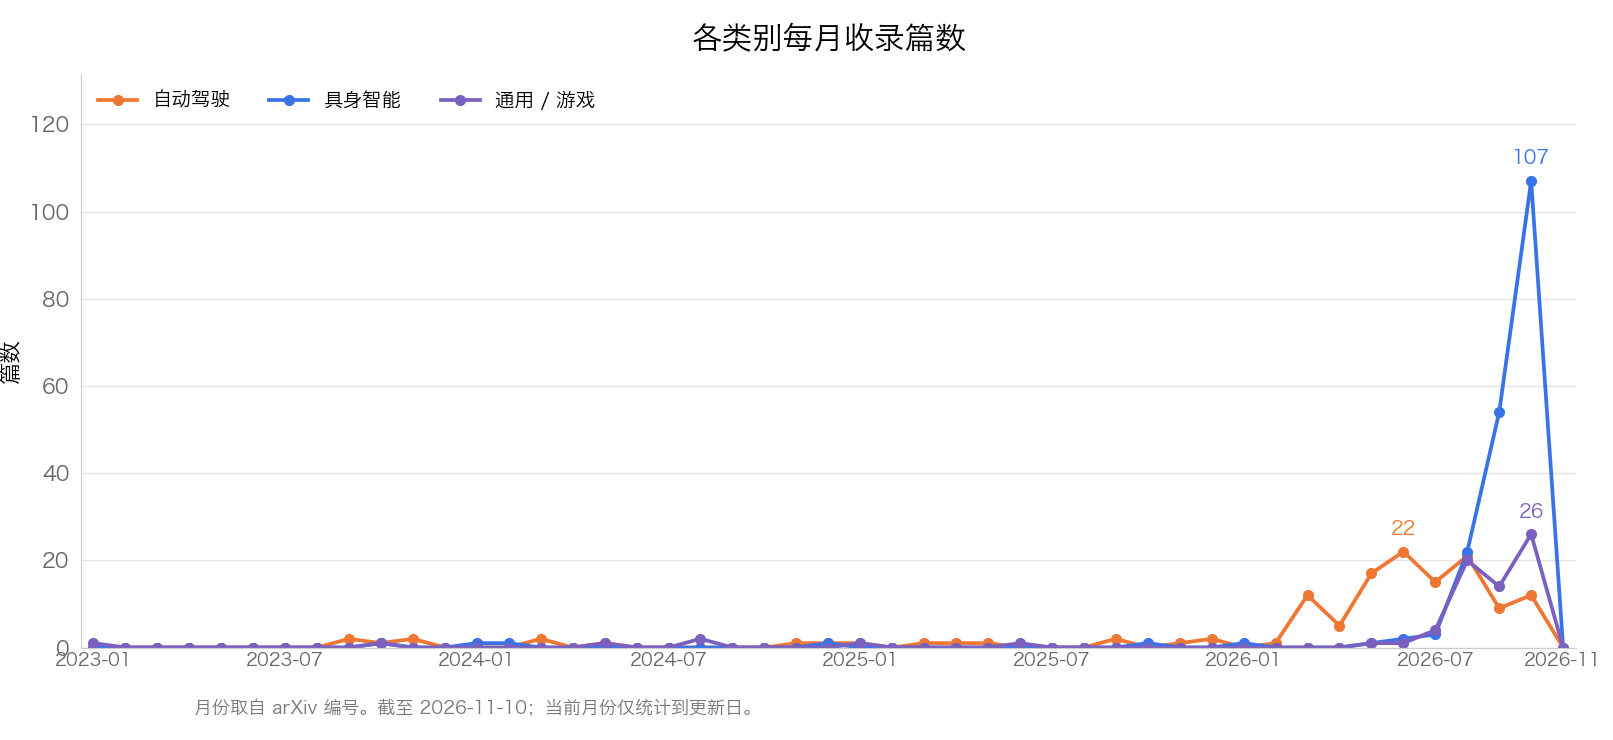
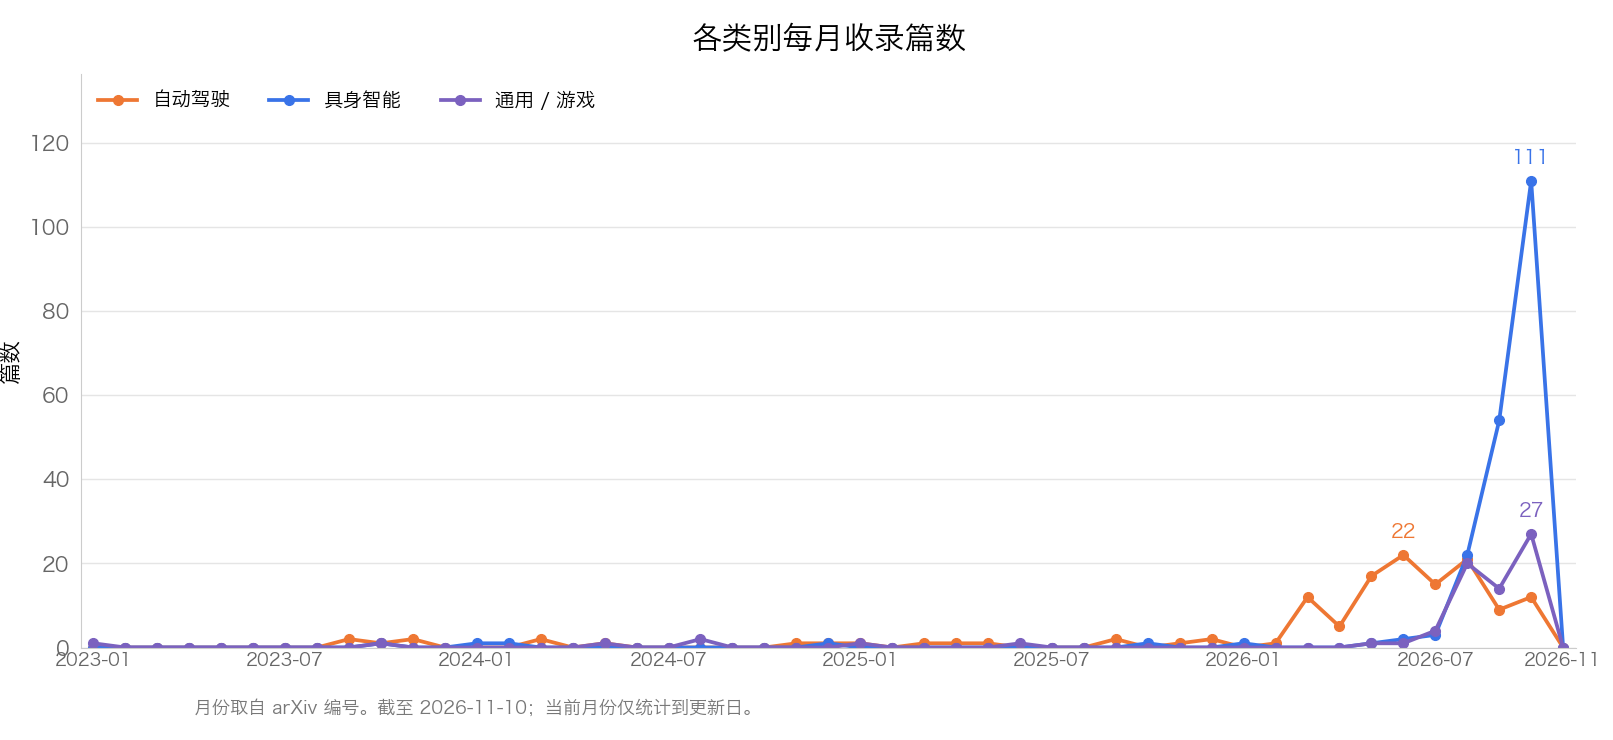
[update] hifor, worldflow, gensight, cgse, futureworld

diff --git a/README.en.md b/README.en.md
@@ -10,7 +10,7 @@
 
 World models learn dynamic representations of their environments to predict and imagine the future. Interactive world models further support action-conditioned generation and control, providing data engines, neural simulators, and a foundation for policy learning in autonomous driving and embodied AI. This repository collects representative work, organized by application domain and annotated with its interactive capabilities.
 
-📊 **401** papers collected | Last updated: 2026-11-10
+📊 **406** papers collected | Last updated: 2026-11-10
 
 <p align="center">
   <img src="assets/interactive-world-model.en.svg" alt="Interactive world models: closed-loop interaction between agents and world models" width="760">
@@ -32,8 +32,8 @@ World models learn dynamic representations of their environments to predict and 
 ## Contents
 
 - [Autonomous Driving](#autonomous-driving) (133)
-- [Embodied AI](#embodied-ai) (195)
-- [General / Game](#general--game) (73)
+- [Embodied AI](#embodied-ai) (199)
+- [General / Game](#general--game) (74)
 
 ## Autonomous Driving
 
@@ -247,12 +247,14 @@ World models learn dynamic representations of their environments to predict and 
 | **GLaM**: Training a Latent World Model over Global Spatiotemporal Memory for Active Exploration and Navigation | arXiv (2026) | Tsinghua University / EBKernel | 🔁 ⏳ | [Paper](https://arxiv.org/abs/2609.14561) | Trains a goal-conditioned latent world model over global spatiotemporal map memory. Historical map tokens, the navigation goal, and the current pose jointly predict future map representations and robot-centered waypoint latents. On an ObjectNav subset under controlled reproduction in Habitat/HM3D, it raises success from 78.50% to 86.89% and SPL from 47.70% to 48.35% relative to the reproduced BSC-Nav. |
 | **GaussianDream++**: Efficient 3D Gaussian World Modeling for Robotic Manipulation | arXiv (2026) | Haibao Yu team | 🎮 🔁 | [Paper](https://arxiv.org/abs/2608.25659) | A compact, policy-native extension of GaussianDream: world-state and world-prediction tokens are inserted into the VLA backbone. Only during training, world-representation heads decode shared Gaussian primitives for current-world and future-prediction supervision, with static-dynamic decomposition focusing on interaction regions. At inference, Gaussian decoding and rollout paths are removed, leaving only 20 world tokens. It reaches 98.6% on LIBERO and raises average real-robot success from 29.2% to 52.5% while maintaining efficient closed-loop control. |
 | **InsertionWM**: Generalizable Robotic Insertion with World Models | arXiv (2026) | NVIDIA / University of California San Diego | 🎮 🔁 | [Paper](https://arxiv.org/abs/2609.28258) | Adds wrist depth and proprioception to TD-MPC2 and uses learned latent dynamics for insertion planning. One model is trained on 90 geometrically distinct assemblies, reaching 56% zero-shot success on unseen objects versus 7% for a model-free baseline; success on seen assemblies is 55.0%. Experiments are simulation-only. |
+| **CGSE**: Generating Critic-Guided Synthetic Experience in Latent World Models | arXiv (2026) | Imperial College London | 🎮 | [Paper](https://arxiv.org/abs/2610.39100) | Uses a frozen action-conditioned LeWM to refine actions and generate local transitions for offline policy updates. In cube-single controls with matched starting checkpoints and extra updates, chaining succeeds in 90.9% versus 89.3% for refinement without a world model; the 95% interval on the additional gain is [-2.1,5.6] percentage points. Most gains come from action refinement. Evidence covers three simulated tasks and three policy seeds; long chains drift, and deployment does not call the world model. |
 | **GigaBrain-WBC-0.5: A Behavior World Model for Robust Whole-Body Control with Environment Interaction** | arXiv (2026) | GigaAI | 🎮 | [Paper](https://arxiv.org/abs/2608.18234) | Trains a behavioral world model for whole-body humanoid control, using a causal Transformer to predict the next-frame distributions of states, actions, and action commands, thereby modeling how the environment affects actions. |
 | **GreenWAM**: A World Foundation Model for Robotics | arXiv (2026) | Sber Robotics Center | 🎮 🔁 | [Paper](https://arxiv.org/abs/2610.18774) \| [Project](https://greenvla.github.io/GreenWAM/) \| [Code](https://github.com/greenvla/GreenWAM) | Shared joint coordinates across 20 robot families support joint world prediction and action generation; a matched-budget RoboTwin ablation gains 8.0 percentage points in randomized success by retaining world-model training, while each benchmark needs separate post-training and real-robot validation covers one humanoid packing task. |
 | **Grounded-Dreamer**: Robot Learning from World Model Synthetic Data with Physical Grounding | arXiv (2026) | Peking University / HKUST (Guangzhou) / Lightwheel | — | [Paper](https://arxiv.org/abs/2610.13164) \| [Project](https://fffstrong.github.io/Grounded-Dreamer/) | Fine-tunes Cosmos-Predict 2.5 with interaction-aware masking, generates videos from initial frames, and labels and filters trajectories with inverse dynamics and reconstructed-simulation replay; with 50 synthetic trajectories per task, π0.5 averages 55.0% success across seven real-robot tasks versus 63.6% with 50 real trajectories; this is offline data synthesis rather than action-conditioned world prediction. |
 | **H-JEPA**: End-to-End Learning of Hierarchical World Models for Visual Planning | arXiv (2026) | NYU / AMI | 🎮 🔁 ⏳ | [Paper](https://arxiv.org/abs/2610.06805) \| [Project](https://h-jepa.com/) | Each level of action-conditioned JEPA predicts farther into the future in its own latent space. Higher-level predictions become lower-level subgoals for top-down planning; when timescales are separated, higher levels discard rapidly changing details. On Visual AntMaze, a three-level hierarchy increases success from 18% to 73% with less planning computation, and can also be applied to real-robot DROID videos. |
 | **Hamiltonian JEPA**: Action-Conditioned World Models with an Inherited Control State | arXiv (2026) | Tel Aviv University | 🎮 🔁 | [Paper](https://arxiv.org/abs/2609.33497) | Separates perceptual encoding from the control state: the control state is a fixed orthogonal slice of the perceptual encoding, evolved through port-Hamiltonian dynamics. Executed actions are read back through the transposed port, equivalent to projecting rollout error onto port directions. Training lasts at most 10 epochs. OGB-Cube success is 91.9%, compared with 79.3% for action-decoding Delta-JEPA. |
 | **HapticWorld**: an Interactive World Simulator with Real-time Torque Feedback | arXiv (2026) | Ant Group / University of Illinois Urbana-Champaign / Stanford University / NVIDIA | 🎮 🔁 | [Paper](https://arxiv.org/abs/2609.31924) \| [Project](https://haptic-world.github.io/) | An interactive world model jointly predicts joint torques and feeds them back to the operator during data collection. Across three contact tasks, torque feedback increases average collection throughput to 1.6×. Policies trained on its generated demonstrations achieve 54/60 on real robots, close to 56/60 from real-robot demonstrations and above 19/60 for the vision-only baseline. Success measured within the model is close to real-robot success. |
+| **HiFOR**: Hierarchical Foresight with Action-Guided World Grounding for Vision-Language-Action Model | arXiv (2026) | Nanjing University of Science and Technology / National University of Singapore / Shenyang Institute of Automation, CAS / CUHK | 🔁 | [Paper](https://arxiv.org/abs/2610.40373) | Predicts short-term, milestone and goal features alongside near-future robot states, retrieves them using denoising action representations, and refreshes predictions after execution. Cumulative RoboTwin ablations improve success from 40.35% to 49.40%; six real-robot tasks average 81.7% over fifty trials each. Prediction is not externally action-conditioned; multiple training seeds and held-out prediction errors are unreported, and long-task success does not establish coherent long rollouts. |
 | **Hydra-0**: Action Flow for Generalist World Modeling and Control | arXiv (2026) | NVIDIA | 🎮 🔁 | [Paper](https://arxiv.org/abs/2608.18077) | Represents robot actions as pixel motion (action flow), providing a unified visual interface for learning action consequences across embodiments, tasks, environments, and video backbones; robot-motion error decreases by 90.4% and object-motion error by 60.2%. |
 | **Hydra**: A Navigation World Action Model with Discrete Latent Planning and Continuous Flow-Matching Execution | arXiv (2026) | Xuesu Xiao team | 🎮 ⚡ 🔁 | [Paper](https://arxiv.org/abs/2608.28995) | Addresses the real-time control bottleneck caused by mismatched generative-model and planner manifolds, where candidate actions must be decoded into pixels for evaluation. Hydra builds a unified latent manifold over visual states, physical poses, and control actions, using modality-specific VQ bottlenecks to compress them into discrete vocabularies of kinematic intentions and visual states. The planner samples and evaluates natively in discrete space, ranking candidates with a kinematic-perceptual cost without decoding pixels throughout (Discrete Latent Planning). Conditional flow matching then maps discrete intentions to continuous trajectories for execution. On two real robots, goal-directed planning outperforms SOTA world models, while closed-loop execution matches or exceeds leading reactive foundation policies. |
 | **IMPACT**: Attention Is the Interaction Map for Scalable Interaction-Aware World Model Training | arXiv (2026) | Tsinghua University / University of Science and Technology of China | 🎮 | [Paper](https://arxiv.org/abs/2609.00161) \| [Project](https://embodiedcity.github.io/IMPACT/) \| [Code](https://github.com/EmbodiedCity/IMPACT.code) | Addresses global MSE being dominated by static backgrounds and providing insufficient supervision for sparse interaction regions. Cross-attention from manipulated-object tokens supplies an internal prior, which is calibrated using local prediction errors into an interaction map to reweight the denoising loss. It requires no external dense representations and adds no inference overhead. |
@@ -313,6 +315,7 @@ World models learn dynamic representations of their environments to predict and 
 | **Sampling-based Kinodynamic Planning with World Models** | arXiv (2026) | Purdue University | 🎮 🔁 | [Paper](https://arxiv.org/abs/2610.12910) | Uses a frozen DINO-WM to predict candidate-action consequences, with batched RRT/KPIECE expansion in latent space and receding-horizon replanning; RRT with short CEM polishing solves 29/30 real-robot block-pushing problems versus 23/30 each for CEM and MPPI; physical evaluation is limited to planar block pushing, and latent goal attainment does not guarantee real success. |
 | **Scope-WM**: Scoped Computation for Efficient Visual World Models | arXiv (2026) | Soochow University / Fudan University | 🎮 🔁 | [Paper](https://arxiv.org/abs/2609.33218) \| [Code](https://github.com/ChunZheng2022/Scope-WM) | Applies full dynamics only to latent tokens relevant to prediction, updating the remaining tokens with summaries of foreground states and their changes. Planning reuses previously found good action sequences. On Push-T, peak memory and planning time are 18.1% and 14.3% of dense DINO-WM, respectively, with a 6.97× planning speedup. |
 | **RepresentNav**: See What I Need, Dream What I Want: A Navigation Foundation Model on a Self-Constructed Representation Space | arXiv (2026) | Peking University / University College London / DataCanvas | 🔁 | [Paper](https://arxiv.org/abs/2610.31762) \| [Project](https://wang-yinxi.github.io/representnav/) | Constructs navigation representations from multilayer visual priors and predicts future latents before acting. In matched point-goal ablations, collision rate falls from 15.90% without predictive supervision to 13.45%. Prediction is not externally action-conditioned; real-robot results are qualitative, and multi-training-seed uncertainty is unreported. |
+| **GenSight**: Seeing and Imagining as One: Unified Video Generation and 4D Perception for Embodied World Modeling | arXiv (2026) | RoboScience / Nanjing University / The Hong Kong Polytechnic University / National University of Singapore | — | [Paper](https://arxiv.org/abs/2610.39232) \| [Project](https://gensight-rbs.github.io/) | Uses a shared video DiT to generate 49-frame RGB futures, depth, segmentation and flow, and performs single-step perception on observed video. RoboMIND task-held-out FVD is 14.55, but raw flow EPE is 7.089 versus RynnWorld4D's 4.936. In-domain training and joint-objective contributions are not isolated, and repeated training seeds are unreported. There is no robot-action interface or control loop; single-step perception does not establish real-time future generation. |
 | **SG-JEPA**: Semigroup-JEPA: Latent Dynamics Consistency for Zero-Shot Physics Generalization | arXiv (2026) | Yale / Brown | 🎮 🔁 | [Paper](https://arxiv.org/abs/2609.10464) \| [Project](https://sg-jepa.github.io) | Builds on LeWorldModel by supplying parameters governing physics, such as gravity, as action conditions to a temporal model, jointly training the encoder and predictor through autoregressive latent rollouts. Compared with DINO-WM, 2D open-loop error decreases by up to 2× and 3D robot diffusion-policy success increases by up to 2.5×. Gains mainly come from the encoder retaining dynamics features that can be propagated forward. |
 | **SkeLAM**: Skeleton-Grounded Latent Action Model for Robot World Models | arXiv (2026) | Harbin Institute of Technology (Shenzhen) / Show Lab, National University of Singapore / Ping An Technology | 🎮 | [Paper](https://arxiv.org/abs/2610.31474) \| [Project](https://aopolin-lv.github.io/SkeLAM/) | Separates latent actions into skeleton-grounded kinematic and residual components through cross-modal swapping, then adapts robot actions for video prediction. DROID LPIPS is 0.1310 versus DreamDojo's 0.1473, but AgiBot gains are inconsistent; policy evaluation uses recorded-action replay without closed-loop validation. |
 | **Slot-JEPA**: Object-Structured Prediction Interfaces for Latent World Models | arXiv (2026) | University of Chinese Academy of Sciences / ICT, CAS / Beijing Academy of Artificial Intelligence / IIE, CAS | 🎮 🔁 | [Paper](https://arxiv.org/abs/2610.28074) \| [Code](https://github.com/KID-7391/Slot-JEPA) | Factorizes visual features into stable slots and dynamic masks, predicts action consequences with transition memory, and plans through unbalanced optimal transport. It succeeds in 93/108 REALM-JEPA simulation cases (86.1%), requiring exploratory memory initialization; slots need not preserve individual object identity. |
@@ -361,6 +364,7 @@ World models learn dynamic representations of their environments to predict and 
 | **World-as-Graph**: Relational World Modeling Through Latent Space Graphs | arXiv (2026) | RMIT / Monash University / University of Melbourne | 🎮 🔁 | [Paper](https://arxiv.org/abs/2609.38927) \| [Code](https://github.com/Scarlett-Yyq/World-as-Graph) | Builds a time-varying latent graph over object slots and makes autoregressive predictions using neighborhood relationships and historical memory. On PushT, it reaches 90.70% with only 6×128 tokens, compared with DINO-WM's 91.33% using 196×384. Under the same 6×128 configuration, it exceeds OC-JEPA by 14.70 percentage points and C-JEPA by 2.03. On CLEVRER, counterfactual-question accuracy with a SAVi encoder exceeds C-JEPA by 15.26 percentage points. |
 | **WorldContact**: A Contact-Centric World Model for Scalable Robot Learning | arXiv (2026) | UBC / Style3D | 🎮 ⏳ | [Paper](https://arxiv.org/abs/2609.19600) | Learns contact dynamics of soft objects such as shopping bags from a small number of high-quality trajectories. It predicts vertex states using larger timesteps than numerical simulators, avoiding the small steps required to prevent penetration. State rollouts are approximately 10× faster on a single H100. Fine-tuning an existing policy with augmented data raises single-attempt bag-lifting success from 65% to 95%, with direct deployment to a real robot. |
 | **WorldFailBench**: Do World Models Understand Policy Failures? | arXiv (2026) | — | 🎮 🔁 | [Paper](https://arxiv.org/abs/2610.33565) \| [Project](https://github.com/DAXIAORobotics/WorldFailBench) | Feeds generated observations back to policies to evaluate action-conditioned world models on failure types, stages and simulated scene-change boundaries across RoboTwin, LIBERO and G1. Success-rate correlation across seven models does not ensure faithful failure diagnosis. Frozen boundary pairs use independent reference re-estimation, but results depend on adapters, rollout schedules and observational labels; public resources mainly provide data and documentation. |
+| **WorldFlow**: Joint Video and 3D Motion Prediction via Large-Scale Pretraining | arXiv (2026) | RoboScience / National University of Singapore | — | [Paper](https://arxiv.org/abs/2610.39278) \| [Project](https://worldflow-rbs.github.io/) | Jointly generates instruction-conditioned video and query-point 3D motion. With backbone and data matched, SpatialCog ADE is 55.9% lower than the flow-only variant; a shared execution pipeline completes 24/36 real-robot trials versus μ₀'s 4/36. Predictions guide one-shot trajectory fitting, without demonstrated robot-action-conditioned forecasting or feedback replanning. Labels rely on automated tracking; repeated training seeds and uncertainty intervals are unreported. |
 | **WorldOracle**: Benchmarking Action-Conditioned World Models against Real-World Executions | arXiv (2026) | AgiBot / NVIDIA | — | [Paper](https://arxiv.org/abs/2610.18826) \| [Project](https://worldoracle-benchmark.github.io/) \| [Code](https://github.com/WorldOracle-benchmark/WorldOracle) | A benchmark uses 335 paired real executions to assess physical outcomes and interaction coherence in action-conditioned world models; across seven models, its four metrics agree with human preferences in 88.1–93.2% of comparisons, but a single reference can penalize plausible stochastic outcomes and adaptation budgets differ across embodiments. |
 | **WorldSimProbe**: Diagnosing Simulator Faithfulness in Action-Conditioned World Models for Embodied Manipulation | arXiv (2026) | Shanghang Zhang team | — | [Paper](https://arxiv.org/abs/2608.09298) | To serve as a simulator, a world model must satisfy observable physical contracts rather than rely on visual impressions or task scores. |
 | **XPACE**: Joint World and Action Modeling from Heterogeneous Experience | arXiv (2026) | XPeng Robotics | 🎮 🔁 | [Paper](https://arxiv.org/abs/2609.17372) \| [Project](https://xpeng-robotics.github.io/xpace/) | The same video backbone performs two functions: predicting actions and future videos with language, and performing visual simulation alone given skeletal controls and camera poses. It jointly trains on approximately 5,000 hours of action-free video, human demonstrations, and IRON teleoperation, then fine-tunes the policy with simulator-generated recovery trajectories after deviations. On three IRON tasks, average success is 68.3% (DreamZero: 40%; GR00T: 6.7%; 20 trials per task). On another task set, fine-tuning with recovery data raises average success from 61.7% to 86.7%. |
@@ -394,6 +398,7 @@ World models learn dynamic representations of their environments to predict and 
 | **Distilling Physical Priors into Streaming World Models** | arXiv (2026) | Yihao Liu's team | ⏳ | [Paper](https://arxiv.org/abs/2608.07981) | Distills physical priors into streaming world models to improve physical consistency in long-horizon rollouts. |
 | **Frechet Forcing**: Training Long-Horizon Streaming World Models from Short Clips | arXiv (2026) | — | 🎮 ⏳ | [Paper](https://arxiv.org/abs/2610.25666) \| [Project](https://zhao-yian.github.io/Frechet_Forcing/) \| [Code](https://github.com/zhao-yian/Frechet_Forcing) | Fine-tunes streaming world models with generative anchoring and real-data Fréchet statistics, extending training on 381-frame clips to robot-action- or camera-conditioned generation beyond 4,000 frames. Local artifacts and scene drift can persist over long horizons, and closed-loop policy control is untested. |
 | **From Generation to Simulation: How Far Are World Models from Being True Simulators?** | arXiv (2026) | Tong Wang et al. | — | [Paper](https://arxiv.org/abs/2608.23070) \| [Project](https://github.com/AtongWang/world-model-simulators) | Uses eight capabilities of traditional simulators as external criteria to systematically assess the gap between generative world models and true simulators. It organizes three technical approaches, latent-space dynamics, video generation, and joint-embedding prediction, maps 200 representative works, identifies state feedback as the most neglected weakness, and proposes six research directions. |
+| **FutureWorld**: A Plug-and-Play Causal Next-State Predictor for Interactive Video World Exploration | arXiv (2026) | Zhejiang University / National University of Singapore / Zhejiang Lab / Bournemouth University / vivo BlueImage | 🎮 ⏳ | [Paper](https://arxiv.org/abs/2610.39619) \| [Project](https://guangyuankk.github.io/futureworld/) | Uses action-conditioned C-NCP forecasts to modulate four frozen generators. On 60-second RealEstate10K evaluations, Matrix-Game 3.0 subject consistency rises from 0.7946 to 0.8387. Ablations test action conditioning, prediction direction and training schedules; 720P time per interaction on an A800 rises from 6.677 to 7.294 seconds. Multiple training seeds and confidence intervals are unreported; long-horizon evidence is perceptual. |
 | **GAUGE**: A Measurement-Grounded Benchmark for Physical Fidelity in Simulation Engines and Video World Models | arXiv (2026) | Weinan Zhang's team | — | [Paper](https://arxiv.org/abs/2608.05948) | A measurement-grounded benchmark for physical fidelity that diagnoses physical consistency in simulation engines and video world models. |
 | **HappyWorld-Bench** | arXiv (2026) | Alibaba / BAAI | — | [Paper](https://arxiv.org/abs/2609.24308) | Evaluates whether generated worlds remain reliable after exploration, interaction, and modification. Six capability levels unify video, spatial, and embodied systems, with checks of physical causality, content causality, and interpenetration to assess whether actions produce the expected consequences. |
 | **HelloWorld**: Enabling Socially Interactive Characters in Video World Models | arXiv (2026) | Yoichi Sato's team | — | [Paper](https://arxiv.org/abs/2608.05070) | The first to enable social interaction between users and virtual characters in video world models. |

diff --git a/README.md b/README.md
@@ -10,7 +10,7 @@
 
 世界模型 (World Model) 通过学习环境的动态表征，实现对未来的预测与想象； 可交互世界模型进一步支持以动作 (action) 为条件的生成与控制， 为自动驾驶和具身智能提供数据引擎、神经仿真器与策略学习基础。 本仓库收录并整理该方向的代表性工作，按应用场景分类， 并标注每篇工作的交互能力维度。
 
-📊 共收录 **401** 篇工作 ｜ 最后更新：2026-11-10
+📊 共收录 **406** 篇工作 ｜ 最后更新：2026-11-10
 
 <p align="center">
   <img src="assets/interactive-world-model1.png" alt="交互式世界模型：智能体与世界模型的闭环交互" width="760">
@@ -32,8 +32,8 @@
 ## 目录
 
 - [自动驾驶 Autonomous Driving](#自动驾驶-autonomous-driving)（133）
-- [具身智能 Embodied AI](#具身智能-embodied-ai)（195）
-- [通用 / 游戏 General / Game](#通用--游戏-general--game)（73）
+- [具身智能 Embodied AI](#具身智能-embodied-ai)（199）
+- [通用 / 游戏 General / Game](#通用--游戏-general--game)（74）
 
 ## 自动驾驶 Autonomous Driving
 
@@ -247,12 +247,14 @@
 | **GLaM**: Training a Latent World Model over Global Spatiotemporal Memory for Active Exploration and Navigation | arXiv (2026) | 清华大学 / EBKernel | 🔁 ⏳ | [论文](https://arxiv.org/abs/2609.14561) | 在全局时空地图记忆上训练目标条件潜空间世界模型，由历史地图 token、导航目标和当前位姿同时预测未来地图表征与以机器人为中心的路点潜变量。在 Habitat/HM3D 受控复现的 ObjectNav 子集上，相对复现的 BSC-Nav，成功率从 78.50% 提到 86.89%，SPL 从 47.70% 到 48.35%。 |
 | **GaussianDream++**: Efficient 3D Gaussian World Modeling for Robotic Manipulation | arXiv (2026) | Haibao Yu 团队 | 🎮 🔁 | [论文](https://arxiv.org/abs/2608.25659) | GaussianDream 的策略原生紧凑扩展：向 VLA 骨干插入世界状态/世界预测 token，仅训练期用世界表征头解码到共享高斯基元得到当前世界与未来预测监督，静态-动态分解聚焦交互区域；推理时移除高斯解码与 rollout 路径仅留 20 个世界 token，LIBERO 达 98.6%，真机平均成功率从 29.2% 升至 52.5% 且保持高效闭环控制。 |
 | **InsertionWM**: Generalizable Robotic Insertion with World Models | arXiv (2026) | NVIDIA / 加州大学圣地亚哥分校 | 🎮 🔁 | [论文](https://arxiv.org/abs/2609.28258) | 在 TD-MPC2 上接腕部深度和本体感觉，用学到的潜动力学做插入规划。一个模型训到 90 种几何各异的装配，未见物体零样本成功率 56%，无模型基线 7%；已见装配 55.0%。实验只在仿真中。 |
+| **CGSE**: Generating Critic-Guided Synthetic Experience in Latent World Models | arXiv (2026) | Imperial College London | 🎮 | [论文](https://arxiv.org/abs/2610.39100) | 复用冻结动作条件 LeWM，精炼动作并生成局部转移以离线更新策略；同起点及额外更新的 cube-single 对照中，链式生成成功率为 90.9%，无世界模型精炼为 89.3%，额外收益的 95% 区间为 [-2.1,5.6] 个百分点。大部分收益来自动作精炼；仅三个仿真任务、三策略种子，长链漂移明显，部署不调用世界模型。 |
 | **GigaBrain-WBC-0.5: A Behavior World Model for Robust Whole-Body Control with Environment Interaction** | arXiv (2026) | GigaAI | 🎮 | [论文](https://arxiv.org/abs/2608.18234) | 为人形机器人全身控制训练了一个行为世界模型，通过causal Transformer预测下一帧得状态、动作以及动作指令得分布，从而对环境对动作的影响进行建模。 |
 | **GreenWAM**: A World Foundation Model for Robotics | arXiv (2026) | Sber Robotics Center | 🎮 🔁 | [论文](https://arxiv.org/abs/2610.18774) \| [项目](https://greenvla.github.io/GreenWAM/) \| [代码](https://github.com/greenvla/GreenWAM) | 以20个机器人家族的共享关节坐标联合训练世界预测与动作生成；同预算RoboTwin消融中保留世界模型训练使随机场景成功率提高8.0个百分点，各基准仍需单独后训练，真机仅验证单人形装袋任务。 |
 | **Grounded-Dreamer**: Robot Learning from World Model Synthetic Data with Physical Grounding | arXiv (2026) | 北京大学 / 香港科技大学（广州） / Lightwheel | — | [论文](https://arxiv.org/abs/2610.13164) \| [项目](https://fffstrong.github.io/Grounded-Dreamer/) | 以交互掩码微调 Cosmos-Predict 2.5，从初帧生成视频，经逆动力学标注和重建仿真回放筛选；每任务50条合成轨迹训练的 π0.5 在7项真机任务平均成功率为55.0%（50条真数据为63.6%）；用于离线数据合成，并非动作条件世界预测。 |
 | **H-JEPA**: End-to-End Learning of Hierarchical World Models for Visual Planning | arXiv (2026) | NYU / AMI | 🎮 🔁 ⏳ | [论文](https://arxiv.org/abs/2610.06805) \| [项目](https://h-jepa.com/) | 每层动作条件 JEPA 在各自潜空间预测更远的未来，上层预测作为下层子目标自上而下规划；时间尺度分离时高层丢掉快变细节。Visual AntMaze 上三层层次把成功率从 18% 提到 73%，规划计算更少，并可接到 DROID 真机视频。 |
 | **Hamiltonian JEPA**: Action-Conditioned World Models with an Inherited Control State | arXiv (2026) | 特拉维夫大学 | 🎮 🔁 | [论文](https://arxiv.org/abs/2609.33497) | 感知编码和控制状态拆开：控制状态是感知编码里一块固定的正交切片，再用端口–哈密顿动力学滚动。从端口转置读回已执行动作，这个读出等于投影到端口方向上的展开误差。最多训练 10 个 epoch。OGB-Cube 成功率 91.9%，对照的动作解码 Delta-JEPA 为 79.3%。 |
 | **HapticWorld**: an Interactive World Simulator with Real-time Torque Feedback | arXiv (2026) | 蚂蚁集团 / 伊利诺伊大学厄巴纳-香槟分校 / 斯坦福大学 / NVIDIA | 🎮 🔁 | [论文](https://arxiv.org/abs/2609.31924) \| [项目](https://haptic-world.github.io/) | 交互式世界模型同时预测关节力矩，并在采集时把力矩反馈给操作者。三个接触任务上，力矩反馈把采集吞吐平均提高到 1.6 倍。用它生成的示范训出的策略，真机 54/60，接近真机示范的 56/60，高于纯视觉基线的 19/60。模型内测到的成功率和真机接近。 |
+| **HiFOR**: Hierarchical Foresight with Action-Guided World Grounding for Vision-Language-Action Model | arXiv (2026) | Nanjing University of Science and Technology / National University of Singapore / Shenyang Institute of Automation, CAS / CUHK | 🔁 | [论文](https://arxiv.org/abs/2610.40373) | 联合预测短期、里程碑和终点特征及短期机器人状态，以去噪动作表示检索未来信息并在执行后重预测；RoboTwin 递增消融从 40.35% 升至 49.40%，六项真机任务各五十次的平均成功率为 81.7%。预测不以外部动作为条件，未报告多训练种子或留出预测误差，长任务成功不等于长 rollout 一致性。 |
 | **Hydra-0**: Action Flow for Generalist World Modeling and Control | arXiv (2026) | NVIDIA | 🎮 🔁 | [论文](https://arxiv.org/abs/2608.18077) | 将机器人动作表示为像素运动（action flow）作为统一视觉接口，跨本体、任务、环境与视频骨干学习动作后果，机器人运动误差降低 90.4%、物体运动误差降低 60.2%。 |
 | **Hydra**: A Navigation World Action Model with Discrete Latent Planning and Continuous Flow-Matching Execution | arXiv (2026) | Xuesu Xiao 团队 | 🎮 ⚡ 🔁 | [论文](https://arxiv.org/abs/2608.28995) | 针对生成模型与规划器流形脱节、候选动作须解码回像素才能评估的实时控制瓶颈，Hydra 在视觉状态、物理位姿与控制动作上建立统一潜流形，用模态专属 VQ 瓶颈压缩为运动学意图与视觉状态的离散词表，使规划器（采样与评估）原生工作在离散空间——以运动学-感知代价排序候选、全程不解码像素（Discrete Latent Planning），再用条件流匹配把离散意图映射为连续轨迹执行；在两台真实机器人上目标导向规划超越 SOTA 世界模型，闭环执行持平或超过领先反应式基础策略。 |
 | **IMPACT**: Attention Is the Interaction Map for Scalable Interaction-Aware World Model Training | arXiv (2026) | 清华大学 / 中科大 | 🎮 | [论文](https://arxiv.org/abs/2609.00161) \| [项目](https://embodiedcity.github.io/IMPACT/) \| [代码](https://github.com/EmbodiedCity/IMPACT.code) | 针对全局 MSE 让静态背景主导优化、稀疏交互区域欠监督的问题，用被操作物体 token 的交叉注意力作内部先验，经局部预测误差校准成交互图并重加权去噪损失，无需外部稠密表征、推理无额外开销。 |
@@ -313,6 +315,7 @@
 | **Sampling-based Kinodynamic Planning with World Models** | arXiv (2026) | Purdue University | 🎮 🔁 | [论文](https://arxiv.org/abs/2610.12910) | 用冻结的 DINO-WM 预测候选动作后果，在潜空间批量扩展 RRT/KPIECE 并滚动重规划；30个真机推块问题中 RRT 加短 CEM 细化成功29/30，CEM 和 MPPI 各23/30；真机仅验证平面推块，潜空间到达不保证真实成功。 |
 | **Scope-WM**: Scoped Computation for Efficient Visual World Models | arXiv (2026) | 苏州大学 / 复旦大学 | 🎮 🔁 | [论文](https://arxiv.org/abs/2609.33218) \| [代码](https://github.com/ChunZheng2022/Scope-WM) | 只对和预测有关的潜变量 token 做完整动力学，其余 token 用前景状态及其变化的摘要更新，规划时复用已经搜到的好动作序列。Push-T 上峰值显存和规划时间分别是稠密 DINO-WM 的 18.1% 和 14.3%，规划加速 6.97 倍。 |
 | **RepresentNav**: See What I Need, Dream What I Want: A Navigation Foundation Model on a Self-Constructed Representation Space | arXiv (2026) | Peking University / University College London / DataCanvas | 🔁 | [论文](https://arxiv.org/abs/2610.31762) \| [项目](https://wang-yinxi.github.io/representnav/) | 融合多层视觉先验构建导航表征，并在行动前预测未来潜状态；同骨干点目标消融中，碰撞率由无预测监督的 15.90% 降至 13.45%。预测不以外部动作为条件，真机仅定性展示，主结果未报告多训练种子不确定性。 |
+| **GenSight**: Seeing and Imagining as One: Unified Video Generation and 4D Perception for Embodied World Modeling | arXiv (2026) | RoboScience / Nanjing University / The Hong Kong Polytechnic University / National University of Singapore | — | [论文](https://arxiv.org/abs/2610.39232) \| [项目](https://gensight-rbs.github.io/) | 用共享视频 DiT 联合生成 49 帧未来 RGB、深度、分割和流，并从已观察视频单步感知。RoboMIND 任务留出集 FVD 为 14.55，但原始流 EPE 为 7.089，高于 RynnWorld4D 的 4.936。未隔离域内训练与联合目标的贡献，训练重复未报告；没有机器人动作接口或控制闭环，单步感知不等于实时未来生成。 |
 | **SG-JEPA**: Semigroup-JEPA: Latent Dynamics Consistency for Zero-Shot Physics Generalization | arXiv (2026) | Yale / Brown | 🎮 🔁 | [论文](https://arxiv.org/abs/2609.10464) \| [项目](https://sg-jepa.github.io) | 在 LeWorldModel 上把控制物理的参数（如重力）作为动作条件喂给时序模型，并用自回归潜空间 rollout 联合训练编码器与预测器；相对 DINO-WM，2D 开环误差最多降 2×，3D 机器人扩散策略成功率最多升 2.5×，增益主要来自编码器保留可前向传递的动力学特征。 |
 | **SkeLAM**: Skeleton-Grounded Latent Action Model for Robot World Models | arXiv (2026) | Harbin Institute of Technology (Shenzhen) / Show Lab, National University of Singapore / Ping An Technology | 🎮 | [论文](https://arxiv.org/abs/2610.31474) \| [项目](https://aopolin-lv.github.io/SkeLAM/) | 用骨架监督与跨模态交换将潜动作分为运动和残差分量，再经动作适配驱动视频预测；DROID 的 LPIPS 为 0.1310，DreamDojo 为 0.1473，但 AgiBot 收益不一致，策略评估仅为录制动作重放，尚无闭环验证。 |
 | **Slot-JEPA**: Object-Structured Prediction Interfaces for Latent World Models | arXiv (2026) | University of Chinese Academy of Sciences / ICT, CAS / Beijing Academy of Artificial Intelligence / IIE, CAS | 🎮 🔁 | [论文](https://arxiv.org/abs/2610.28074) \| [代码](https://github.com/KID-7391/Slot-JEPA) | 将视觉表征分解为稳定槽与动态掩码，以转移记忆预测动作后果并用非平衡最优传输进行闭环规划；REALM-JEPA 仿真达到 93/108（86.1%）成功，依赖规划前探索初始化记忆，槽不保证单一物体身份。 |
@@ -361,6 +364,7 @@
 | **World-as-Graph**: Relational World Modeling Through Latent Space Graphs | arXiv (2026) | RMIT / 莫纳什大学 / 墨尔本大学 | 🎮 🔁 | [论文](https://arxiv.org/abs/2609.38927) \| [代码](https://github.com/Scarlett-Yyq/World-as-Graph) | 物体槽上建随时间变化的潜图，再按邻居关系和历史记忆做自回归预测。PushT 上只用 6×128 个 token 达到 90.70%，DINO-WM 用 196×384 为 91.33%。同样的 6×128 设置下，比 OC-JEPA 高 14.70 个百分点，比 C-JEPA 高 2.03。CLEVRER 上，SAVi 编码器的反事实问句准确率比 C-JEPA 高 15.26 个百分点。 |
 | **WorldContact**: A Contact-Centric World Model for Scalable Robot Learning | arXiv (2026) | UBC / Style3D | 🎮 ⏳ | [论文](https://arxiv.org/abs/2609.19600) | 从少量高质量轨迹学习购物袋这类软物体的接触动力学，用比数值仿真器更大的时间步预测顶点状态，从而避开为防穿透而必须使用的小步长。单张 H100 上状态 rollout 约快 10 倍；用扩出的数据微调已有策略后，提袋子的单次成功率从 65% 到 95%，并直接部署到真机。 |
 | **WorldFailBench**: Do World Models Understand Policy Failures? | arXiv (2026) | — | 🎮 🔁 | [论文](https://arxiv.org/abs/2610.33565) \| [项目](https://github.com/DAXIAORobotics/WorldFailBench) | 以生成观测反馈策略，评估动作条件世界模型在 RoboTwin、LIBERO 和 G1 上的失败类型、阶段及仿真场景变化边界；七模型的成功率相关性未保证失败诊断一致性。冻结边界配对使用独立参考重估，但结果受适配器、执行时间表和观察性标签影响；公开资源主要为数据与文档。 |
+| **WorldFlow**: Joint Video and 3D Motion Prediction via Large-Scale Pretraining | arXiv (2026) | RoboScience / National University of Singapore | — | [论文](https://arxiv.org/abs/2610.39278) \| [项目](https://worldflow-rbs.github.io/) | 联合生成指令条件视频与查询点三维运动；同骨干/数据对照中，SpatialCog ADE 比仅流模型低 55.9%，同执行管线的 36 次真机测试完成 24 次，μ₀ 为 4 次。预测用于一次性轨迹拟合，未验证机器人动作条件预测或反馈重规划；标注依赖自动跟踪，训练重复和误差区间未报告。 |
 | **WorldOracle**: Benchmarking Action-Conditioned World Models against Real-World Executions | arXiv (2026) | AgiBot / NVIDIA | — | [论文](https://arxiv.org/abs/2610.18826) \| [项目](https://worldoracle-benchmark.github.io/) \| [代码](https://github.com/WorldOracle-benchmark/WorldOracle) | 用335次配对真实执行检验动作世界模型的物理结果及交互一致性；七模型实验中四项指标与人类偏好一致率为88.1–93.2%，但单次参考可能惩罚合理随机结果，跨具身适配预算也不匹配。 |
 | **WorldSimProbe**: Diagnosing Simulator Faithfulness in Action-Conditioned World Models for Embodied Manipulation | arXiv (2026) | Shanghang Zhang 团队 | — | [论文](https://arxiv.org/abs/2608.09298) | 世界模型要当仿真器用，就必须通过可观测的物理契约，而不是靠观感或任务分数。 |
 | **XPACE**: Joint World and Action Modeling from Heterogeneous Experience | arXiv (2026) | 小鹏机器人 | 🎮 🔁 | [论文](https://arxiv.org/abs/2609.17372) \| [项目](https://xpeng-robotics.github.io/xpace/) | 同一个视频骨干兼做两件事：和语言一起预测动作与未来视频，以及给定骨架控制和相机位姿时只做视觉推演。约 5000 小时无动作视频、人类示范和 IRON 遥操作一起训练，仿真器再合成偏离后恢复的轨迹微调策略。IRON 上三个任务平均成功率 68.3%（DreamZero 40%，GR00T 6.7%，每任务 20 次）；另一组任务上，恢复数据微调把平均成功率从 61.7% 提到 86.7%。 |
@@ -394,6 +398,7 @@
 | **Distilling Physical Priors into Streaming World Models** | arXiv (2026) | Yihao Liu 团队 | ⏳ | [论文](https://arxiv.org/abs/2608.07981) | 将物理先验蒸馏到流式世界模型，改善长程 rollout 的物理一致性。 |
 | **Frechet Forcing**: Training Long-Horizon Streaming World Models from Short Clips | arXiv (2026) | — | 🎮 ⏳ | [论文](https://arxiv.org/abs/2610.25666) \| [项目](https://zhao-yian.github.io/Frechet_Forcing/) \| [代码](https://github.com/zhao-yian/Frechet_Forcing) | 用生成锚定与真实数据的 Fréchet 统计约束微调流式世界模型，从 381 帧短片训练扩展到超过 4000 帧的机器人动作或相机条件生成；长时程仍可能出现局部伪影与场景漂移，尚无策略闭环验证。 |
 | **From Generation to Simulation: How Far Are World Models from Being True Simulators?** | arXiv (2026) | Tong Wang 等 | — | [论文](https://arxiv.org/abs/2608.23070) \| [项目](https://github.com/AtongWang/world-model-simulators) | 以传统仿真器的八项能力为外部标尺，系统评估生成式世界模型距离真正仿真器的差距，梳理潜空间动力学、视频生成与联合嵌入预测三条技术路线并映射 200 篇代表性工作，指出状态反馈是最被忽视的短板，并给出六个研究方向。 |
+| **FutureWorld**: A Plug-and-Play Causal Next-State Predictor for Interactive Video World Exploration | arXiv (2026) | Zhejiang University / National University of Singapore / Zhejiang Lab / Bournemouth University / vivo BlueImage | 🎮 ⏳ | [论文](https://arxiv.org/abs/2610.39619) \| [项目](https://guangyuankk.github.io/futureworld/) | 用动作条件 C-NCP 预测下一潜视频块，并调制四个冻结生成器；60 秒 RealEstate10K 评测中，Matrix-Game 3.0 主体一致性从 0.7946 升至 0.8387。包含动作条件、预测方向与训练计划消融；A800 上 720P 每交互耗时从 6.677 增至 7.294 秒。未报告多训练种子或置信区间，长时证据限感知指标。 |
 | **GAUGE**: A Measurement-Grounded Benchmark for Physical Fidelity in Simulation Engines and Video World Models | arXiv (2026) | Weinan Zhang 团队 | — | [论文](https://arxiv.org/abs/2608.05948) | 测量驱动的物理保真度基准，诊断仿真引擎与视频世界模型的物理一致性。 |
 | **HappyWorld-Bench** | arXiv (2026) | 阿里巴巴 / 智源 | — | [论文](https://arxiv.org/abs/2609.24308) | 评测生成世界在探索、交互和修改之后是否仍然可靠，用六级能力统一视频、空间和具身系统，并以物理因果、内容因果和穿模等检查动作有没有带来该有的后果。 |
 | **HelloWorld**: Enabling Socially Interactive Characters in Video World Models | arXiv (2026) | Yoichi Sato 团队 | — | [论文](https://arxiv.org/abs/2608.05070) | 首次在视频世界模型中实现用户与虚拟角色间的社交交互。 |

diff --git a/curation/2026-11-10.md b/curation/2026-11-10.md
@@ -193,3 +193,37 @@
 - `python3 -m unittest discover -s tests`：25 项通过；`git diff --check` 通过。新增 7 个 arXiv ID/标题唯一，8 篇候选均有决策，BoxWorld 未入库；双语点评数字/限制、能力标签及生成结果同步。
 - 总数由 394 增至 401 篇（driving 133、embodied 195、general 73）；2026-10 月分类增量为 0/6/1，与新增记录一致。对比本轮前文本与数据快照，原有论文、此前审计、AGENTS.md 与数据入口均未修改。
 - 变更限 embodied/general 两个数据文件、双语 README、双语统计图及本审计，共七个文件。人工审核后，用户已明确授权提交、推送，并在发布成功后关闭 issue #54。
+
+## Issue #55 — arXiv 候选论文更新 2026-10-30
+
+[原 issue](https://github.com/Zizizi-hao/Awesome-interactive-world-model-for-Pysical-Intelligence/issues/55)；14 篇候选的 arXiv ID、标题及方法名均未在数据库命中，issue 无评论。FutureWorld 与已收录的 FutureWorlds 为不同论文。本轮收录 5 篇（embodied 4、general 1），暂缓 3 篇，不收录 6 篇。检查当前版本的方法、对照、预测和反馈证据、局限及官方资源；不以正增益或机构名气作为唯一门槛，也不把原有世界模型、额外优化或显式引擎后果归功于新动力学。收录论文均为 2026 年首发，正式接收未独立核实，venue 保持 arXiv。仅处理本 issue；初次筛选后保留本地修改供人工审核，用户随后明确授权提交、推送并在发布成功后关闭 issue #55。`meta.updated` 已为本次日期 2026-11-10，无需重复修改。
+
+### 收录
+
+- **HiFOR（embodied，2610.40373）**：从当前图像/语言联合预测三时距 DINOv2 特征和短期机器人状态，去噪动作表示检索已有预测，并非外部动作条件未来预测。未来特征进入动作专家，LIBERO 执行五步后重观察/重预测，且有真机反馈执行，仅标 closedloop。RoboTwin Hard 递增目标/检索消融为 40.35→44.15→45.60→46.95→49.40%，六项真机任务各 50 次、平均 81.7%，支持预测信息的实际利用；30k 更新/8×H200/batch512 的统一描述不证明各行新增参数与总计算完全相等。无独立训练种子、区间或留出未来预测误差；规划 agent/自动里程碑增加监督，不能把收益全归架构。预测终点和长任务成功不等于评估了 coherent 长 rollout；无世界模型吞吐，不标其余能力。NJUST/NUS/中科院沈阳自动化所/CUHK 机构核实，无可核实官方项目或代码，省略链接。[全文 §3.3–4.4](https://arxiv.org/html/2610.40373v1)、[元数据](https://arxiv.org/abs/2610.40373)。
+- **WorldFlow（embodied，2610.39278）**：从初始 RGB、文本和查询点联合预测未来视频与三维流，不是只跟踪已观察视频。同 backbone/data/optimization recipe 的 flow-only 对照中，SpatialCog ADE 0.136→0.060m（降低 55.9%）、FDE 0.248→0.078m；还有生成视频后处理跟踪与辅助运动目标对照。1678 个 object-level 留出样本明确排除训练，但源 episode/视频分组未说明，不称留出任务泛化。真实 12 任务各三次，同初始场景/抓取/控制管线仅替换流预测器，完成 24/36，μ₀ 为 4/36，支持未来运动预测的下游作用；未报告训练重复或区间。预测不输入机器人动作序列，一次预测流后拟合轨迹执行，无世界模型反馈重规划，features 留空。标签依赖自动轨迹估计；1.44M object-level 记录和 1224h 包含多对象、重复点/补帧，不等于独立采集量，同 recipe 也非等总 FLOPs。49 帧/40 采样步不支持长时或实时旗标。RoboScience/NUS 机构及项目核实，仓库仅 README/素材和发布计划，省略 code。[全文 §3–5、附录 A–C](https://arxiv.org/html/2610.39278v1)、[项目](https://worldflow-rbs.github.io/)、[资源状态](https://github.com/worldflow-rbs/worldflow)。
+- **GenSight（embodied，2610.39232）**：按当前 v2 核查。共享 DiT 从初始帧和文本生成未来 49 帧 RGB/深度/分割/流，另能处理已观察视频，确有未来物理结构预测而非仅静态感知。训练按任务作 95/5 划分，真实留出 24 任务/600 episodes，另有 RoboTwin 50 任务/300 episodes；共享块与读出噪声在 200 条留出 UR5 episode 上消融。RoboMIND FVD 14.55，Cosmos3-Nano 为 44.97；但原始流 EPE 7.089 比 RynnWorld4D 的 4.936 更差，不能宣称所有指标领先。缺同数据 generator-only 对照，域内训练、预训练主干与联合目标贡献未隔离；无独立训练种子/区间。监督和评测依赖深度补全、SAM、AllTracker/VGGT 等代理，三维恢复假设静态相机。没有机器人动作接口，作者明确尚无闭环；单步指完整已观察视频的感知，不是单步未来生成或实时吞吐，features 留空。RoboScience/南京大学/香港理工/NUS 机构核实；项目可访问，仓库只有 README/图片，代码/数据/playground 待发布，省略 code。[当前全文 v2 §3–5、附录 B–F](https://arxiv.org/html/2610.39232v2)、[项目](https://gensight-rbs.github.io/)、[资源状态](https://github.com/gensight-rbs/gensight)。
+- **CGSE（embodied，2610.39100）**：作为世界模型应用及局限对照保守收录，不把缺乏显著正收益视为研究无价值。复用冻结动作条件 LeWM，以 critic 梯度局部精炼动作，预测后继并生成离线转移；proposal actor/critic/WM 固定，更新 actor 仅消费状态–动作，后继只通过后续链式生成影响训练分布。三个 OGBench 操作任务、三策略训练种子，主表 48.2→51.6% 为 7.1% 相对或 3.4 个百分点；从头 1M FQL 与 500k 预训练+500k 微调虽更新数相同，学习率/流程不全相同，不能把该均值差归于 WM。核心同 checkpoint/额外 500k actor 更新的 cube-single 对照为无 WM 精炼 89.3±2.1%、chaining 90.9±1.3%，额外收益的配对 95% 区间 [-2.1,5.6] 个百分点，尚未证实 WM 独立增益；该透明的移除对照与漂移诊断是保留原因，点评优先记录此结果。两步潜预测漂移 6.10 接近状态间距离约 7.4，长链误差明显；没有真机或部署时 WM 规划。标 action，不把固定离线生成器/actor 更新当作在线闭环适应；A100 上 5.34ms 为选择器生成开销而非完整 WM 实时吞吐。Imperial College London 机构核实，无可核实官方项目/代码；论文模板写 CWM，但未独立核实正式 workshop 接收，venue 保持 arXiv。[全文 §3–4、Tables 1–3、附录 A/B](https://arxiv.org/html/2610.39100v1)。
+- **FutureWorld（general，2610.39619）**：C-NCP 从当前生成 latent 和下一外部动作预测完整下一块，并调制四个冻结生成器；四 bases、Sekai-val/RE10K-test/WBench 的全部 60 秒 rollout，及去动作、双向、时序损失、concat/modulation 和输入计划消融，支持动作条件/长 rollout 的感知一致性改善。RE10K 的 Matrix-Game 3.0 主体一致性 0.7946→0.8387，平均分 0.8124→0.8314；100 人对 20 对视频的偏好不能代替独立训练重复。未披露训练种子、区间或基准样本数，长时证据限视觉指标，不保证几何状态记忆。Stage II 仅去掉 inter-chunk 真值加和，块内仍 teacher forcing，不称全 on-policy；Bayes/MSE 论述不保证实际混合损失或 rollout 收缩。需 VAE-specific adapter 训练，非任意模型零适配。A800/720P 每交互 6.677→7.294 秒（+9.24%），不标 realtime；latent 自反馈没有观测驱动 controller/planner，亦不标 closedloop。标 action/longhorizon。浙江大学/NUS/浙江实验室/Bournemouth/vivo BlueImage 机构核实，项目可用，代码仓库仅 README/LICENSE/assets，无实现权重，省略 code。[全文 §3–4、附录 A–F](https://arxiv.org/html/2610.39619v1)、[项目](https://guangyuankk.github.io/futureworld/)、[资源状态](https://github.com/GuangYuanKK/Future-World)。
+
+### 暂缓
+
+- **CoAWM（2610.40401）**：§3.4 确实复用冻结 LaWAM 未来视觉 token 给连续动作函数头，不能称完全没有环境预测。新增贡献主要是动作函数空间、时间查询及采样一致性；800 个配对起始条件支持首秒平滑（位置 jerk 150.87→95.46、旋转 746.06→341.73），并不验证新的世界动力学或跨具身迁移。8192 个重建窗口用于模型选择，非独立最终测试；缺未来分支移除/打乱或未来预测质量对照。全文未明确训练数据来源/数量、优化器/epoch/种子、机器人型号及真机/仿真平台，跨具身实证亦不足。22.6% 正机械功下降只来自 13 个双方成功场景，执行时长可不同，不能推广为普遍能耗下降；跨频率重规划不等于 WM 实时。待训练/平台细节、跨具身实证及未来分支作用证据补齐后复审。[全文 §3.4–5](https://arxiv.org/html/2610.40401v1)。
+- **PRIME W0（2610.39528）**：当前 v2 有前一观测生成 RGB subgoal、异步注入下一轮策略的实质预测路径；历史编码后新增 WM 的累计消融为 LIBERO-Long 89.6→93.8%、真机 63.5→70.8%，不是纯 VLA。暂缓因实际 WM 仍仅描述为时空 VAE 加“compact diffusion or flow-based denoiser”，未明确采用哪一实现、图像尺寸、训练超参、划分、评测次数或种子；万小时数据只给来源比例，项目未补足。动作条件在公式中可选、附录输入又省略，不能核实 action。DINO 对齐与成功率 r=0.79 缺样本数/划分，相关性不证明预测导致成功，且给无 forward model 的 OpenVLA 计算同一相关口径不清。累计消融同时加入训练阶段/模块，未给完整等预算说明；异步延迟论述无硬件实测。待配置、评测分母/重复及可复现材料补齐，不因无代码单独暂缓。[当前全文 v2 §3.5、实验/附录 A](https://arxiv.org/html/2610.39528v2)、[项目](https://lucasjinreal.github.io/PRIME-W0/)。
+- **Cheap Retrieval and Observation Credit Assignment / VoI（2610.40030）**：有形式化贡献，提出借动作条件观测/奖励模型估计信息价值，并推导精确量下的 TD 下界；不是与 WM 完全无关。核心信息价值估计器、floored TD target 及近似检索目标尚未实现。MiniGrid pilot 是任务奖励 PPO 训练 Memory Ghost，未使用所提出 WM 估计器或下界；六种子中 0.59M 对 0.94M 步达到 0.95 回报只支持检索设计，不验证 WM 应用。§3 明确估计误差/动作最大化可能把近似下界推高至真实 Q* 以上，完整历史训练仍有成本。暂缓至所提模型估计/信用分配有直接验证；不以理论工作必须有正收益作一般要求。原文附录将链接描述为 Memory Navigation 实现；匿名资源抓取未成功，未核实其包含完整 WM 方法，不能据此声称完整复现；作者自报 CoRL Memory workshop，官方动态名单未完成独立确认，不作为质量替代。[全文 §2–3、附录 C/D](https://arxiv.org/html/2610.40030v1)、[当前实现范围](https://anonymous.4open.science/r/memory_navigation-728E/README.md)、[workshop 名单](https://corl2026-memory.github.io/papers.html)。
+
+### 不收录
+
+- **Wizard（2610.40339）**：真实训练 Wan2.2 renderer、身份 masking、因果适配及 DMD，不能称纯规则或无学习。但 motion library/retarget、几何程序和显式控制器先决定骨骼位置、命中、无敌窗口、伤害与死亡，renderer 接收已执行的骨骼/几何 proxy。当前 §5 全为定性零样本/创意 demo，无量化对照或独立未知后果预测；24FPS/832×480/两步未给硬件，长时 proxy–video 漂移亦被承认。主要是已解析状态的视觉实现，按本轮学习式交互动力学范围不收录，而非因使用 agent/引擎本身排除。[全文 §4–6](https://arxiv.org/html/2610.40339v1)、[项目](https://wyzardwu.github.io/wizard/)。
+- **Fight World Model / FWM（2610.40607）**：有实质的学习式 flow-matching renderer 和同初始化/数据/预算的编码对照，joint fidelity 98.48% 对 spatial proxy+text 的 76.35%，属于有效的视觉表达证据。但 engine 先解析运动、hit event 和健康更新，compiler 将尝试动作、已解析反应和持久血量给到 renderer；双方已收到交互后果，当前实验不证明从动作预测未知后果。去 reaction/health cue 的下降说明显式结果输入重要性，不等于 learned dynamics 验证。固定镜头、双角色二维战斗/单 backbone，无种子/区间；反应主要测预期窗口召回，血量依赖可读 HUD。按当前范围不收录，保留其生成与受控编码贡献的事实；资源仓库仍未发布推理/权重。[全文 §3–4、附录 A/C](https://arxiv.org/html/2610.40607v1)、[项目](https://fight-world-model.github.io/)、[资源状态](https://github.com/fight-world-model/FWM)。
+- **Tactus（2610.39076）**：按最新 v3 的 §IV–VII 核查，是触觉/姿态数据采集与测量平台；0.59N 检测阈值、11mm 根对齐指尖误差等传感评测有实质贡献。learned components 用于标定、姿态融合、材质分类、滑移检测和已观察手物轨迹优化，没有未来动态预测或其规划/控制用途验证。滑移 F1=1 来自单 train/test split、七 sessions，不能当成世界模型物理预测能力。摘要称可用于 foundational world model learning 属未来数据用途，按范围不收录，不否定硬件贡献。[当前全文 v3 §IV–VII](https://arxiv.org/html/2610.39076v3)、[元数据](https://arxiv.org/abs/2610.39076)。
+- **Recursive Self-Improvement in Physical AI（2610.38266）**：综述中心为持续能力、learner/improver 区分与 L0–L3 改进过程证据，世界模型是被讨论的多个组件之一。规范化的公共数据/交互对照建议有参考价值，但量化表格主要汇编已有论文/榜单，不是本文验证了递归动力学改进。与当前优先补充的世界预测及其专门应用/诊断主线匹配较弱，本轮不收录；不是因综述形式一概排除。相关具体 WM 方法应按其原始论文分别核验。[全文 §II–VII](https://arxiv.org/html/2610.38266v1)、[文献资源](https://github.com/nkd-lkz/physical-ai-rsi-survey)。
+- **Video Generation Meets Agent Harness（2610.40191）**：是围绕视频制作、agent–world 交互和模型开发 RSI 三方向的广义 harness 综述。已核查完整 PDF 的框架、§4 及 §7；当前 HTML 只完整展开引言，未用不完整 HTML 断言其后续内容。世界模型章节确讨论预测控制、混合引擎和主动评测，但工作主体是运行时编排/能力分类和评价议程，学习世界动力学是其中一个分支，本轮不作为专门世界预测方法/应用条目加入；不把现有工作汇编或提出 reciprocal evaluation 当作已实证的新动力学能力，也不因综述本身否定研究价值。[完整原文 §2/4/7](https://arxiv.org/pdf/2610.40191)、[项目与阅读资源](https://agentic-videogen.github.io/)、[文献库](https://github.com/agentic-videogen/awesome-agentic-videogen)。
+- **ACTS-WM（2610.37963）**：确有逆/前向潜动作模型与 JEPA 未来表征预测，22 数据集、四类单/多变量预测与分类，不称没有 learned dynamics。数据来自 UCR/UEA、天气/电力/网页流量等被动记录，潜动作是观测变化因子，未验证机器人、驾驶或物理/游戏智能体的动作后果与控制用途；部分手势/生理序列分类不等于具身交互验证。按实际应用范围排除，模板 2027/占位 DOI 也不作为正式 venue。[全文 §3–6、附录 A](https://arxiv.org/html/2610.37963v1)、[元数据](https://arxiv.org/abs/2610.37963)。
+
+### 本地验证
+
+- 已生成双语 README 与两张月度统计图，并目视核对字体、图例、日期和计数；沿用临时 matplotlib 依赖与系统 CJK 字体的进程内别名，未修改生成器。为读取 HTML 未完整展开的综述，仅在临时目录使用 PDF 文本依赖，未更改项目依赖。
+- `python3 -m unittest discover -s tests`：25 项通过；`git diff --check` 通过。新增 5 个 arXiv ID/标题唯一，14 篇均有决策，暂缓/排除候选未入库；中英文数字/限制、能力标签与生成输出同步。
+- 总数由 401 增至 406 篇（driving 133、embodied 199、general 74）；2026-10 月分类增量为 0/4/1，与新增记录一致。对比本轮前文本与数据快照，原有论文、此前审计、AGENTS.md 与数据入口均未修改。
+- 变更限 embodied/general 两个数据文件、双语 README、双语统计图及本审计，共七个文件。人工审核后，用户已明确授权提交、推送，并在发布成功后关闭 issue #55。
